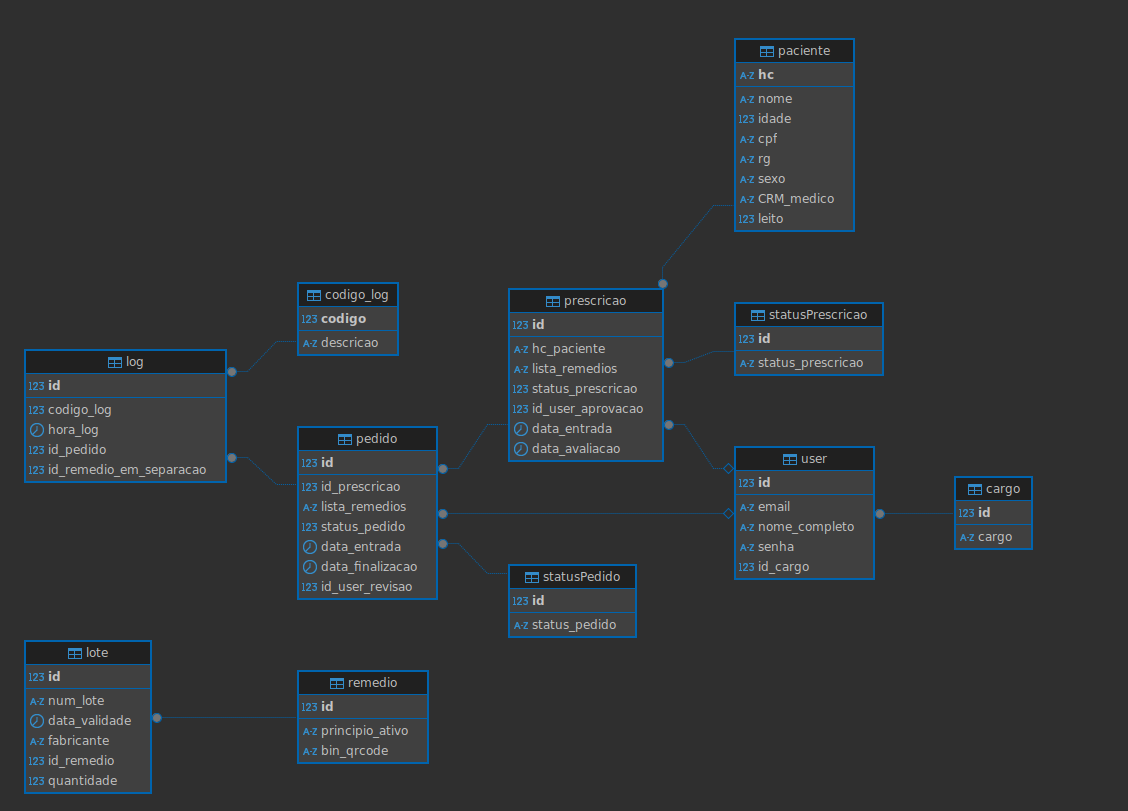
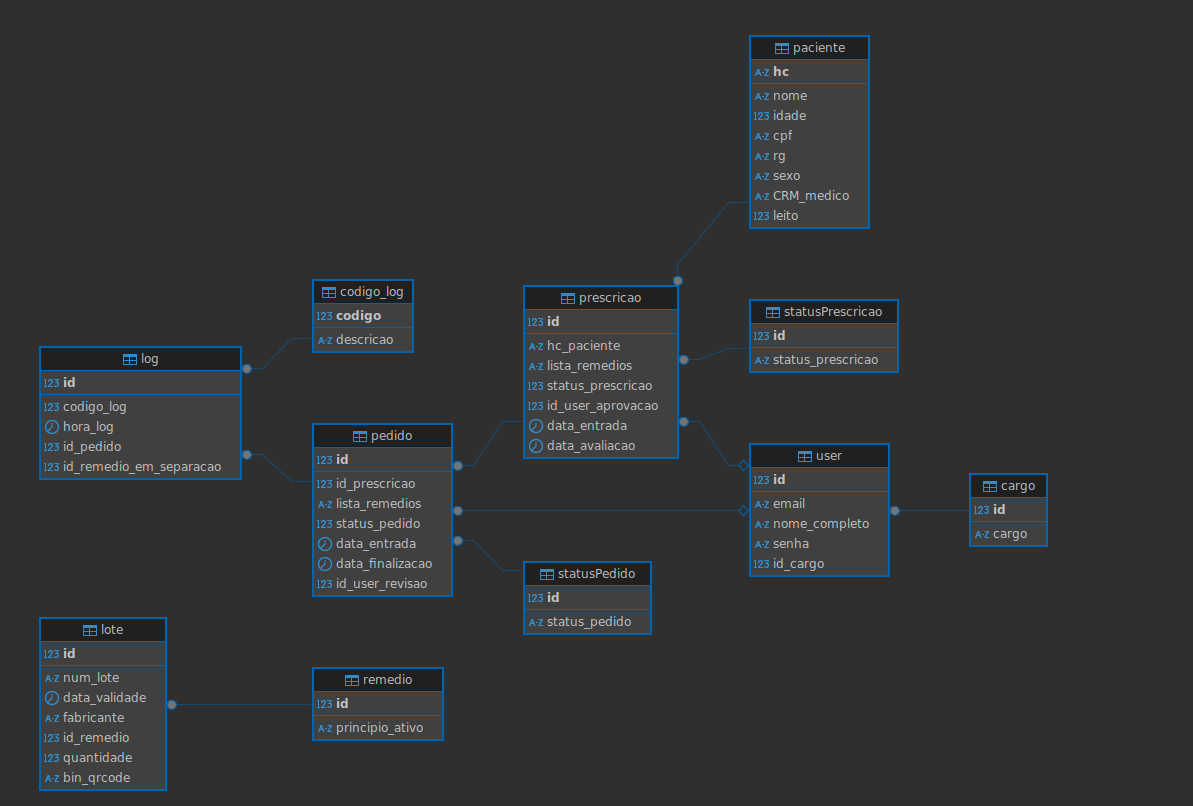
docs: corrigi documentação da API

diff --git a/docs/docs/sprint-3/docs-api/rotas.md b/docs/docs/sprint-3/docs-api/rotas.md
@@ -309,6 +309,22 @@ custom_edit_url: null
 }
 ```
 
+### Puxar primeiro pedido da fila
+```
+/pedidos/fila/
+```
+
+ - **Método**: GET
+ - **Resposta Esperada**:
+    - status code : 200
+    - *response*:
+```
+{
+    "id": 0,
+    "lista_remedios": []
+}
+```
+
 
 
 ## Rotas de Qr Code
@@ -349,22 +365,50 @@ custom_edit_url: null
 ```
 {
     "principio_ativo": "",
-    "bin_qrcode": ""
 }
 ```
 
  - **Resposta Esperada**:
-    - status code : 200
+    - status code : 201
     - *response*:
 ```
 {
-  "message": "Qr Code válido"
+  "message": "Remedio cadastrado com sucesso"
 }
 ```
 
 
 
 &emsp;Ademais, vale pontuar que todas as rotas da nossa API serão protegidas, ou seja, só poderão ser acessadas se, durante a requisição, for enviado um token de acesso nos ***headers***. Esse token é gerado assim que o usuário faz login no nosso sistema e possui uma validade. Ou seja, caso o usuário deslogue da aplicação e tente realizar a requisição utilizando o mesmo token, ela não será processada, devido à expiração do token.
+
+## Rotas de Lote
+
+### Cadastro de Lote
+```
+/lotes/cadastrar
+```
+
+ - **Método**: POST
+ - **Corpo da Requisição**:
+```
+{
+    num_lote = 0,
+    data_validade = "",
+    fabricante = "",
+    id_remedio = 0,
+    quantidade = 0,
+    bin_qrcode = "",
+}
+```
+ - **Resposta Esperada**:
+    - status code : 201
+    - *response*:
+```
+{
+    "message": "Lote cadastrado com sucesso"
+}
+```
+
 
 ## Conclusão
 &emsp; As rotas apresentadas estruturam a comunicação entre clientes e o sistema, garantindo um fluxo para a autenticação, registro de logs, gerenciamento de prescrições, pedidos, validação de QR Code e controle de medicamentos. Cada endpoint foi detalhado com seus métodos, parâmetros e respostas esperadas. Esse mapeamento é feito para a integração e funcionamento adequado da API.

diff --git a/docs/docs/sprint-3/docs-api/modelagem-banco-de-dados.md b/docs/docs/sprint-3/docs-api/modelagem-banco-de-dados.md
@@ -33,9 +33,9 @@ custom_edit_url: null
 
 - **Tabela log**: Mantém um histórico detalhado de todas as ações que são realizadas no sistema, como mudanças de status ou falhas durante o processo. Cada log é vinculado a um pedido e a um código de evento específico.
 
-- **Tabela lote**: Gerencia os lotes de medicamentos, incluindo número de lote, validade, fabricante e quantidade disponível. Essa tabela auxilia no controle dos medicamentos em estoque.
+- **Tabela lote**: Gerencia os lotes de medicamentos, incluindo número de lote, validade, fabricante, quantidade disponível e bin_qrcode. Essa tabela auxilia no controle dos medicamentos em estoque, além de ser usada para identificar e validar os remédios durante a separação pela API.
 
-- **Tabela remedio**: Armazena os dados dos medicamentos, como princípio ativo e QR code associado. A API usa essa tabela para identificar e validar os remédios durante a separação.
+- **Tabela remedio**: Armazena os dados dos medicamentos, como o princípio ativo. 
 
 - **Tabela user**: Registra os usuários do sistema, incluindo e-mail, nome completo, senha e o cargo associado. A gestão de permissões é feita com base nesta tabela pelo código de autenticação gerado com a permissão de usuário.
 
